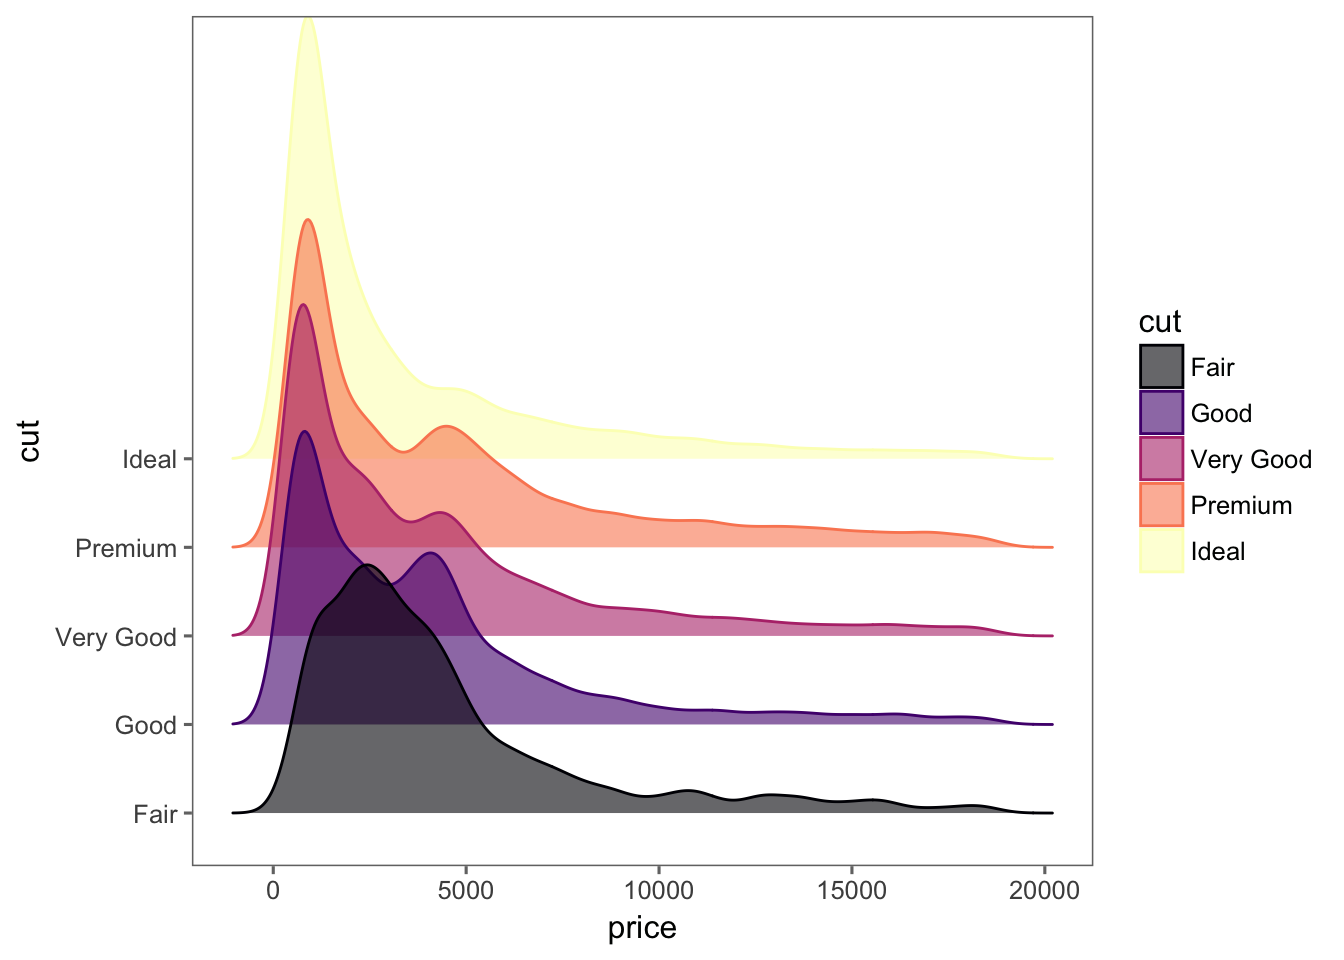
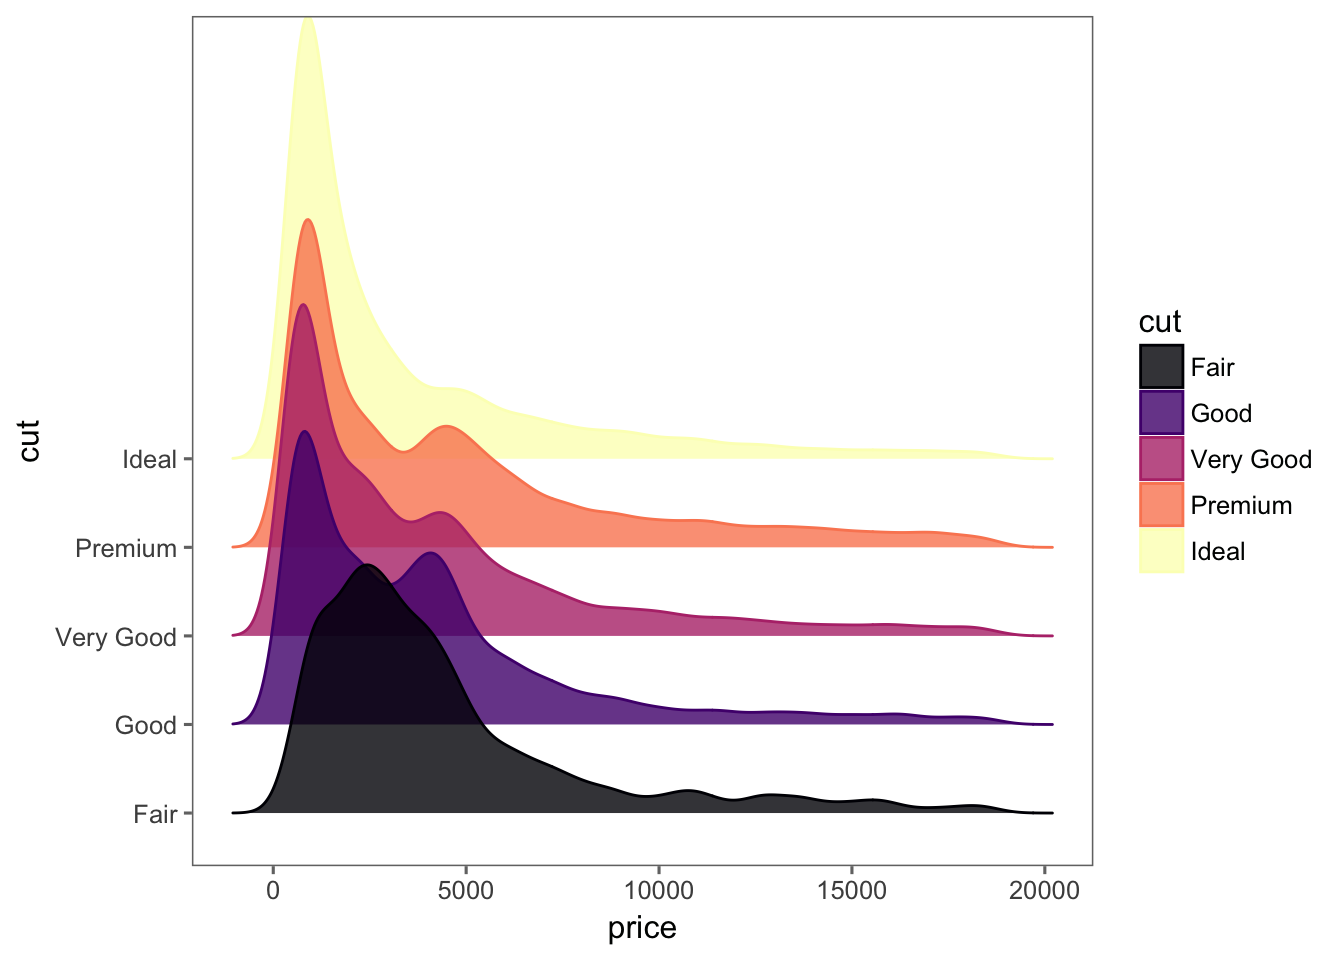
updated index page

Changed region(s): [[0.1875, 0.2188, 0.75, 0.8438], [0.8438, 0.3438, 0.9062, 0.5625]]

diff --git a/index.html b/index.html
@@ -201,11 +201,17 @@ $(document).ready(function () {
 
 
 <p>This document is the web-based version of a presentation given through the University of Idaho library workshop series on September 12, 2017. The text is fairly sparse because this is primarily a reference based on workshop slides. However, it does provide plenty of examples that scaffold through ggplot2 complexity, and has a list of resources for learning more at the end. Good luck, and have fun!</p>
+<div id="who-are-you" class="section level2">
+<h2>Who are you?</h2>
+</div>
+<div id="who-am-i" class="section level2">
+<h2>Who am I?</h2>
+</div>
 <div id="what-is-ggplot2" class="section level2">
 <h2>What is ggplot2?</h2>
 <ul>
 <li><p>an R package for data visualization</p></li>
-<li><p>implements the “grammar of graphics”</p></li>
+<li><p>stands for “grammar of graphics”</p></li>
 </ul>
 </div>
 <div id="why-ggplot2" class="section level2">
@@ -217,43 +223,45 @@ $(document).ready(function () {
 <li><p>Aesthetically pleasing</p></li>
 <li><p>Built for multi-variate data</p></li>
 <li><p>Reproducible figures</p></li>
+<li><p>You can make anything!</p></li>
 </ul>
+</div>
+<div id="goals-for-this-wokrshop" class="section level2">
+<h2>Goals for this wokrshop</h2>
+<p>Teach you enough that you know how to teach yourself more!</p>
 </div>
 <div id="goals-for-today" class="section level2">
 <h2>Goals for today</h2>
 <p>Teach you enough that you know how to teach yourself more!</p>
 <ul>
-<li><p>Introduce “grammar of graphics” concepts</p></li>
+<li><p>Introduce “grammar of graphics” structure</p></li>
 <li>Practice!
 <ul>
 <li>samples with built-in data</li>
 <li>preparing data</li>
 <li>samples with (more interesting?) data</li>
 </ul></li>
+<li><p>Send you away with a list of resouces (including these slides)</p></li>
 </ul>
 </div>
-<div id="grammar-of-graphics" class="section level2">
-<h2>Grammar of graphics</h2>
-<ul>
-<li><p>data with variables mapped to aesthetics</p></li>
-<li><p>one or more geometric layers</p></li>
-<li><p>a scale for each aesthetic mapping</p></li>
-<li><p>a coordinate system</p></li>
-<li><p>a facet specification</p></li>
-</ul>
-<p>If this is confusing, don’t worry - the main message here is that there is a structured grammar underlying ggplot2.</p>
+<div id="code-structure" class="section level2">
+<h2>Code structure:</h2>
+<p>Grammar of graphics</p>
+<pre class="r"><code>ggplot(data = diamonds, aes(x = carat, y = price, color = clarity)) +
+  geom_point() +
+  facet_grid(color ~ cut)</code></pre>
 </div>
 <div id="lets-try-it" class="section level2">
 <h2>Let’s try it!</h2>
 <ol style="list-style-type: decimal">
-<li><p>Download scripts from the following site:</p></li>
-<li><p>Open RStudio</p></li>
+<li><p>Download scripts from the following site: <a href="https://is.gd/IYoXwA" class="uri">https://is.gd/IYoXwA</a></p></li>
+<li><p>Open RStudio.</p></li>
 <li><p>In RStudio, open “install_packages.R”. Highlight the text and click “Run”.</p></li>
 <li><p>Still in RStudio, open “workshop_script.R”. We’ll work from this for the rest of the presentation.</p></li>
 </ol>
 </div>
-<div id="lets-try-it-1" class="section level2">
-<h2>Let’s try it!</h2>
+<div id="okay-now-lets-try-it" class="section level2">
+<h2>Okay, now let’s try it!</h2>
 <p>First, we need data.</p>
 <p>Let’s use the built-in R dataset, “diamonds”.</p>
 <table>
@@ -378,7 +386,6 @@ $(document).ready(function () {
        aes(x = carat, y = price), color = clarity) +
   geom_point()</code></pre>
 <p><img src="index_files/figure-html/diamonds5-1.png" width="672" /></p>
-<p>Putting <code>rcolor = clarity</code> outside of the “aesthetics” call meant that ggplot didn’t know that it was supposed to map data to the “color” aesthetic.</p>
 </div>
 <div id="we-could-get-this-instead" class="section level2">
 <h2>We could get this instead:</h2>
@@ -429,10 +436,10 @@ $(document).ready(function () {
   facet_wrap(~cut)</code></pre>
 <p><img src="index_files/figure-html/diamonds10-1.png" width="672" /></p>
 </div>
-<div id="more-facets" class="section level2">
-<h2>More facets!</h2>
-<pre class="r"><code>ggplot(data = diamonds, aes(x = carat, y = price)) +
-  geom_point(aes(color = clarity), size = 0.5) +
+<div id="two-dimensional-facets" class="section level2">
+<h2>Two-dimensional facets:</h2>
+<pre class="r"><code>ggplot(data = diamonds, aes(x = carat, y = price, color = clarity)) +
+  geom_point(size = 0.5) +
   facet_grid(color~cut)</code></pre>
 <p><img src="index_files/figure-html/diamonds11-1.png" width="672" /></p>
 </div>
@@ -459,11 +466,11 @@ $(document).ready(function () {
   geom_joy()</code></pre>
 <p><img src="index_files/figure-html/diamonds14-1.png" width="672" /></p>
 </div>
-<div id="adjust-color-scales" class="section level2">
-<h2>Adjust color scales:</h2>
+<div id="choose-colors-scale_color_" class="section level2">
+<h2>Choose colors: scale_color_…</h2>
 <pre class="r"><code>ggplot(data = diamonds, 
        aes(x = price, y = cut, color = cut, fill = cut)) +
-  geom_joy(alpha = 0.6, scale = 5) +
+  geom_joy(alpha = 0.8, scale = 5) +
   scale_fill_viridis(option = &quot;A&quot;, discrete = TRUE) +
   scale_color_viridis(option = &quot;A&quot;, discrete = TRUE) + 
   theme_few()</code></pre>
@@ -599,8 +606,8 @@ kable(head(iris_long))</code></pre>
   theme_bw()</code></pre>
 <p><img src="index_files/figure-html/iris%20plot%20polar-1.png" width="672" /></p>
 </div>
-<div id="try-out-a-new-dataset" class="section level2">
-<h2>Try out a new dataset:</h2>
+<div id="a-more-interesting-dataset" class="section level2">
+<h2>A more interesting dataset:</h2>
 <pre class="r"><code>kable(head(gapminder))</code></pre>
 <table>
 <thead>
@@ -665,21 +672,12 @@ kable(head(iris_long))</code></pre>
 </tbody>
 </table>
 </div>
-<div id="take-a-look-at-the-data" class="section level2">
-<h2>Take a look at the data:</h2>
-<pre class="r"><code>ggplot(gapminder,
-       aes(x = year, y = lifeExp, color = gdpPercap)) +
-  geom_line(aes(group = country)) +
-  facet_grid(continent~.) +
-  scale_color_viridis(trans = &quot;log&quot;) +
-  theme_few()</code></pre>
-<p><img src="index_files/figure-html/test%20gapminder-1.png" width="672" /></p>
-</div>
 <div id="a-scatter-plot" class="section level2">
 <h2>A scatter plot:</h2>
 <pre class="r"><code>ggplot(gapminder, aes(x = gdpPercap, y = lifeExp)) +
   geom_point()</code></pre>
 <p><img src="index_files/figure-html/gapminder%20plots-1.png" width="672" /></p>
+<p>Who’s the outlier?</p>
 </div>
 <div id="whos-the-outlier" class="section level2">
 <h2>Who’s the outlier?</h2>
@@ -755,7 +753,6 @@ plot_dat &lt;- left_join(gapminder_means, country_df, by = &quot;country&quot;)<
 </div>
 <div id="where-to-learn-more" class="section level2">
 <h2>Where to learn more:</h2>
-<p><small></p>
 <ul>
 <li>Stack Overflow/Google</li>
 <li>Books:
@@ -764,6 +761,11 @@ plot_dat &lt;- left_join(gapminder_means, country_df, by = &quot;country&quot;)<
 <li>Ggplot2: Elegant graphics for data analysis: <a href="https://www.amazon.com/ggplot2-Elegant-Graphics-Data-Analysis/dp/0387981403" class="uri">https://www.amazon.com/ggplot2-Elegant-Graphics-Data-Analysis/dp/0387981403</a> (may also be available for free at github).</li>
 <li>Data visualization for social science: <a href="http://socviz.co/" class="uri">http://socviz.co/</a></li>
 </ul></li>
+</ul>
+</div>
+<div id="where-to-learn-more-1" class="section level2">
+<h2>Where to learn more:</h2>
+<ul>
 <li>Papers:
 <ul>
 <li>Wickham grammar of graphics: <a href="http://byrneslab.net/classes/biol607/readings/wickham_layered-grammar.pdf" class="uri">http://byrneslab.net/classes/biol607/readings/wickham_layered-grammar.pdf</a></li>
@@ -775,12 +777,17 @@ plot_dat &lt;- left_join(gapminder_means, country_df, by = &quot;country&quot;)<
 <li><a href="http://r-statistics.co/Top50-Ggplot2-Visualizations-MasterList-R-Code.html" class="uri">http://r-statistics.co/Top50-Ggplot2-Visualizations-MasterList-R-Code.html</a></li>
 <li><a href="http://www.ggplot2-exts.org/gallery/" class="uri">http://www.ggplot2-exts.org/gallery/</a></li>
 </ul></li>
+</ul>
+</div>
+<div id="where-to-learn-more-2" class="section level2">
+<h2>Where to learn more:</h2>
+<ul>
 <li>Twitter:
 <ul>
 <li><span class="citation">@hadleywickham</span>, <span class="citation">@ClausWilke</span>, <span class="citation">@JennyBryan</span>, <span class="citation">@RLadiesGlobal</span>, <span class="citation">@rstudiotips</span></li>
 </ul></li>
+<li>This presentation! <a href="https://adrienne-marshall.github.io/ggplot2_workshop/index.html" class="uri">https://adrienne-marshall.github.io/ggplot2_workshop/index.html</a></li>
 </ul>
-<p></small></p>
 </div>
 <div id="questions" class="section level2">
 <h2>Questions?</h2>
